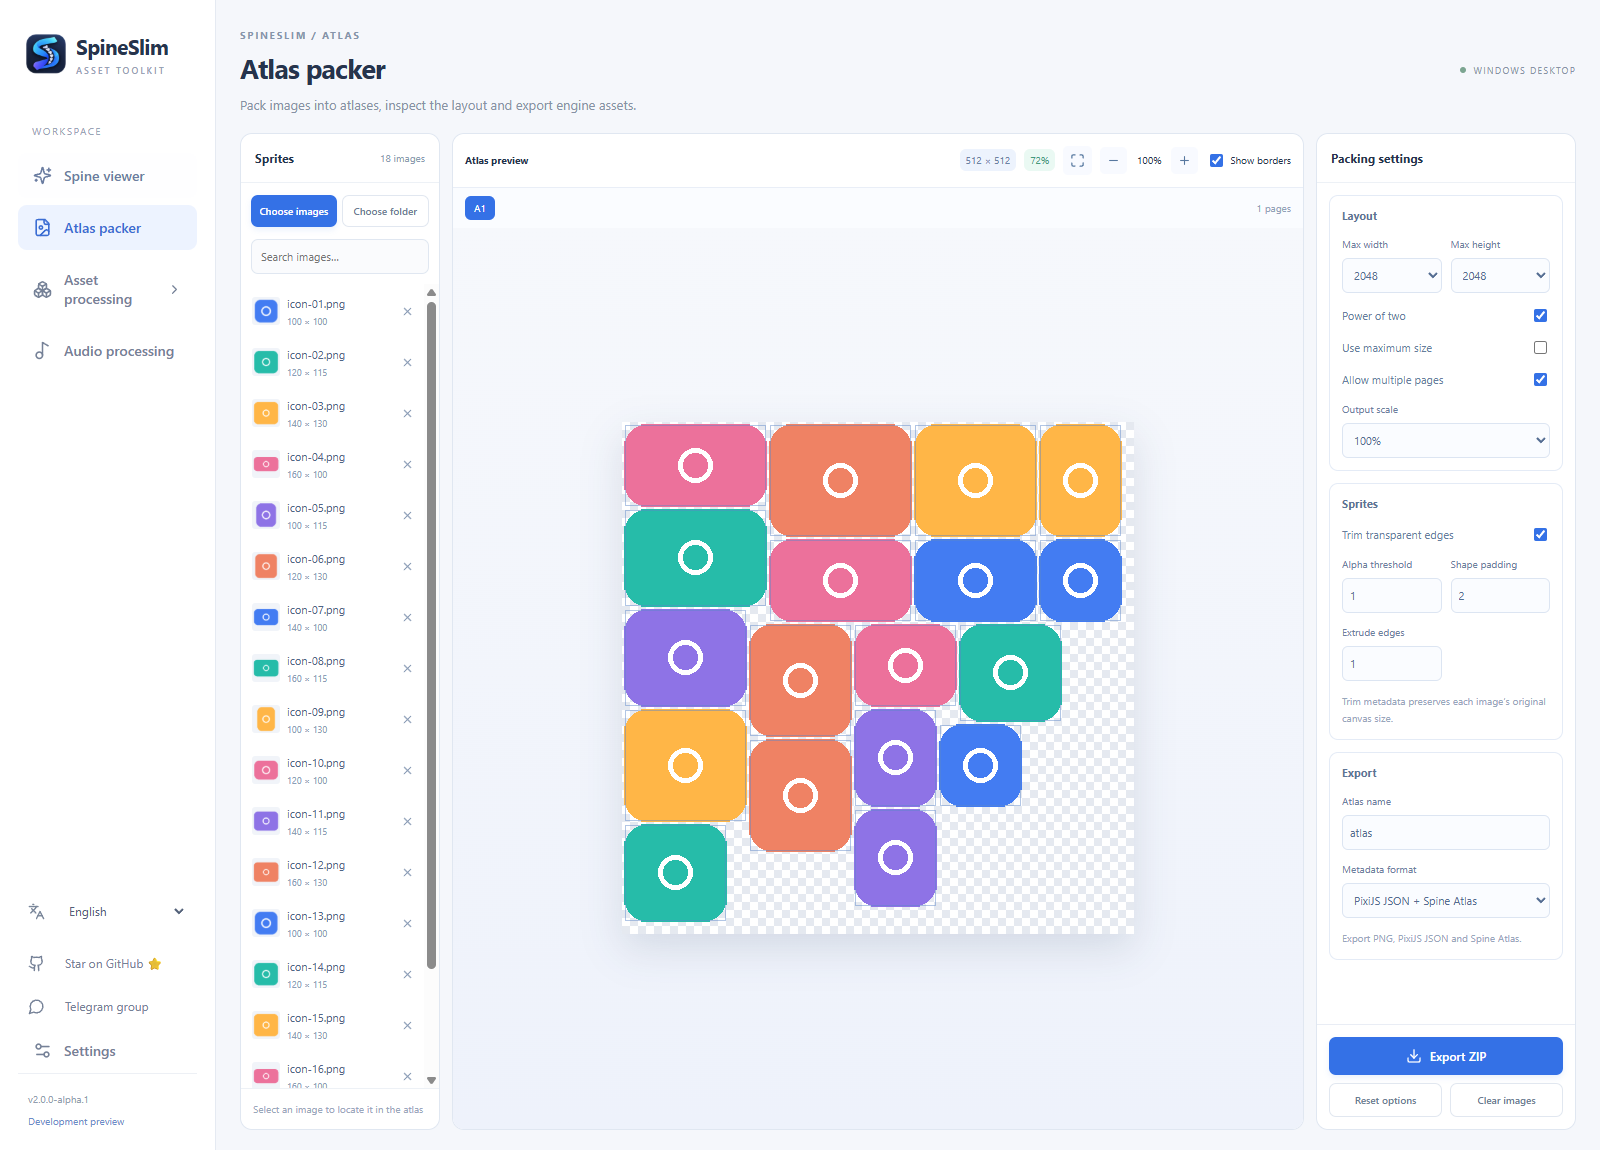
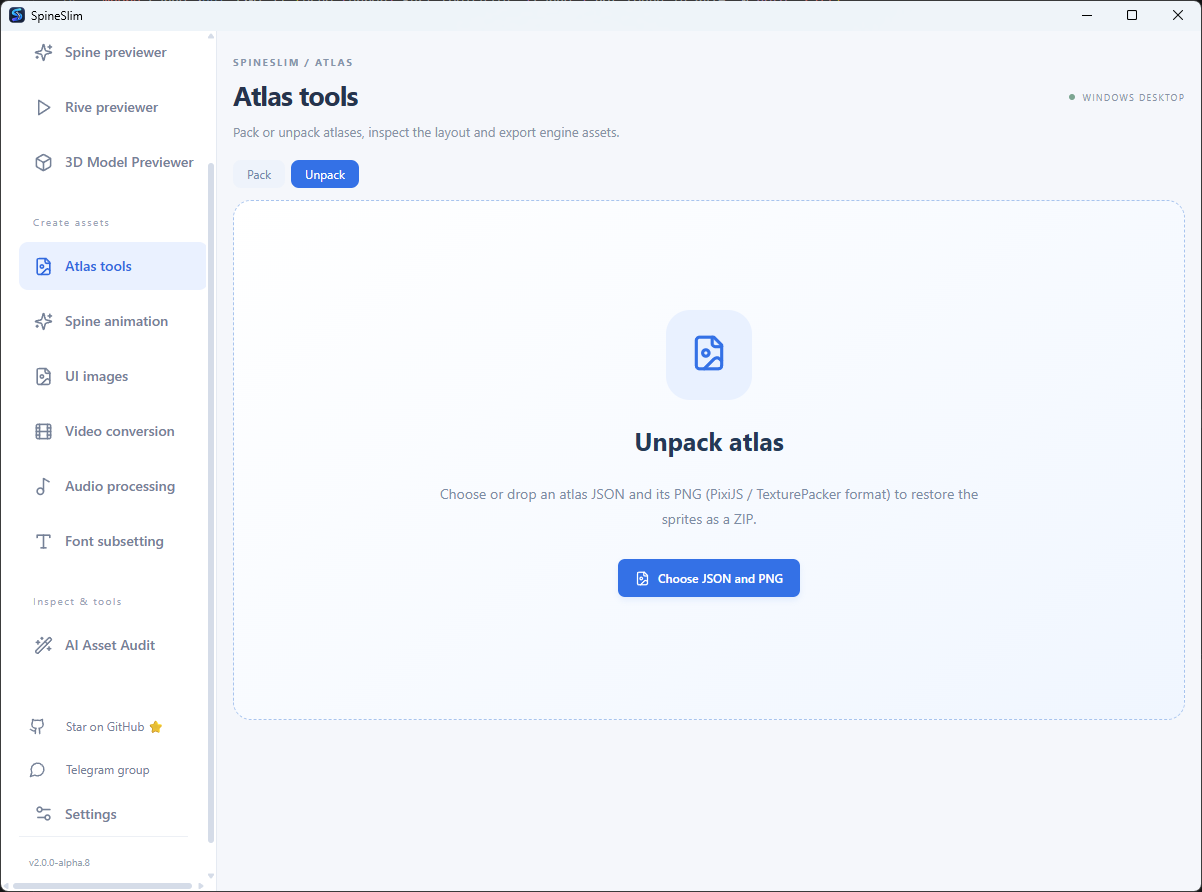
docs: rename atlas section to Atlas tools and replace screenshots
- Rename the atlas heading to "Atlas tools" in the three READMEs.
- Replace the atlas and asset-processing screenshots with new atlas tools
  screenshots (zh / en), and remove the old processing-zh/en and
  duplicate atlas-tools images.

diff --git a/README.en-US.md b/README.en-US.md
@@ -1,4 +1,4 @@
-# SpineSlim · Spine Viewer, Texture Atlas Packer & Game Asset Toolkit
+# SpineSlim · Spine Viewer, Texture Atlas Tools & Game Asset Toolkit
 
 **A Windows desktop toolkit for Unity, Cocos Creator, Godot, PixiJS and Phaser game developers, with Spine and Rive preview, 3D model inspection, atlas packing and asset processing.**
 
@@ -75,7 +75,7 @@ Rotation and duplicate-image merging are not implemented. Limits: 500 images, 32
 
 ## Game asset processing and texture optimization
 
-![SpineSlim game asset processing with Spine texture compression and output format options](assets/screenshots/processing-en.png)
+![SpineSlim atlas tools: pack and unpack modes, drop or choose atlas files](assets/screenshots/atlas-en.png)
 
 ### Before and after: see the size reduction at a glance
 
